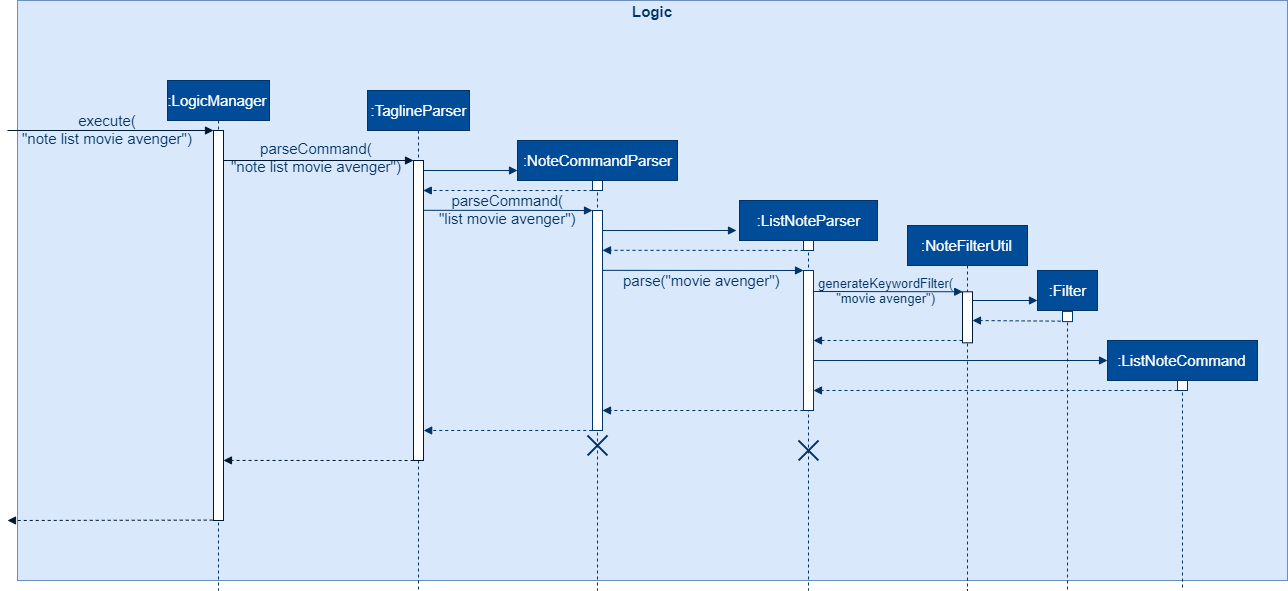
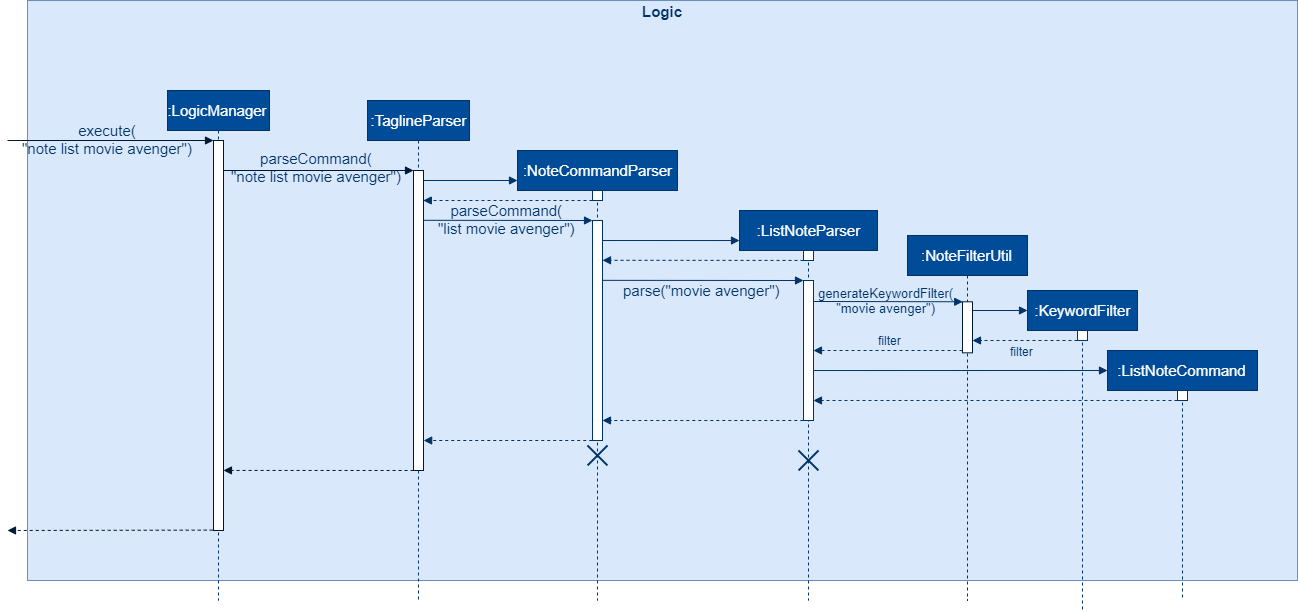
Rebuild pages at 787e2d8173f9a26972c2fdb9ae5f6810170be92a

diff --git a/DeveloperGuide.html b/DeveloperGuide.html
@@ -59,10 +59,10 @@
 <li><a href="#proposed-implementation-2">3.3.2. Proposed Implementation</a></li>
 </ul>
 </li>
-<li><a href="#proposed-note-filtering-feature">3.4. [Proposed] Note filtering feature</a>
+<li><a href="#note-filtering-feature">3.4. Note filtering feature</a>
 <ul class="sectlevel3">
 <li><a href="#description-3">3.4.1. Description</a></li>
-<li><a href="#proposed-implementation-3">3.4.2. Proposed Implementation</a></li>
+<li><a href="#implementation-3">3.4.2. Implementation</a></li>
 </ul>
 </li>
 <li><a href="#logging">3.5. Logging</a></li>
@@ -1194,7 +1194,7 @@ interact with TagManager which will find the tag or create it if it does not exi
 </div>
 </div>
 <div class="sect2">
-<h3 id="proposed-note-filtering-feature"><a class="link" href="#proposed-note-filtering-feature">3.4. [Proposed] Note filtering feature</a></h3>
+<h3 id="note-filtering-feature"><a class="link" href="#note-filtering-feature">3.4. Note filtering feature</a></h3>
 <div class="sect3">
 <h4 id="description-3"><a class="link" href="#description-3">3.4.1. Description</a></h4>
 <div class="paragraph">
@@ -1221,33 +1221,49 @@ interact with TagManager which will find the tag or create it if it does not exi
 </div>
 </div>
 <div class="sect3">
-<h4 id="proposed-implementation-3"><a class="link" href="#proposed-implementation-3">3.4.2. Proposed Implementation</a></h4>
+<h4 id="implementation-3"><a class="link" href="#implementation-3">3.4.2. Implementation</a></h4>
 <div class="paragraph">
-<p>The note filter mechanism is facilitated by the <code>Filter</code> inner class in <a href="https://github.com/AY1920S1-CS2103T-F12-3/main/tree/master/src/main/java/tagline/logic/commands/note/ListNoteCommand.java"><code>ListNoteCommand</code></a>.
-It contains a String filter value and the enum <code>FilterType</code>.</p>
+<p>The note filter mechanism is facilitated by the <a href="https://github.com/AY1920S1-CS2103T-F12-3/main/tree/master/src/main/java/tagline/logic/commands/note/NoteFilter.java"><code>NoteFilter</code></a> class.
+It contains the filter value and the enum <code>FilterType</code>.</p>
 </div>
 <div class="paragraph">
-<p>A <code>Filter</code> is generated by the <code>NoteFilterUtil</code> inner class in <a href="https://github.com/AY1920S1-CS2103T-F12-3/main/tree/master/src/main/java/tagline/logic/parser/note/ListNoteParser.java"><code>ListNoteParser</code></a> and passed into <code>ListNoteCommand</code>.</p>
+<p>A <code>NoteFilter</code> is generated by the <code>NoteFilterUtil</code> inner class in <a href="https://github.com/AY1920S1-CS2103T-F12-3/main/tree/master/src/main/java/tagline/logic/parser/note/ListNoteParser.java"><code>ListNoteParser</code></a> and passed into <a href="https://github.com/AY1920S1-CS2103T-F12-3/main/tree/master/src/main/java/tagline/logic/commands/note/ListNoteCommand.java"><code>ListNoteCommand</code></a>.</p>
+</div>
+<div class="paragraph">
+<p><code>ListNoteCommand</code> then creates a <code>Predicate</code> based on the filter and updates the list of notes in the UI via <code>Model</code>.</p>
 </div>
 <div class="sect4">
 <h5 id="filter-by-string-keyword"><a class="link" href="#filter-by-string-keyword">Filter by String keyword</a></h5>
 <div class="paragraph">
-<p>Filter by keyword also implements the  <a href="https://github.com/AY1920S1-CS2103T-F12-3/main/tree/master/src/main/java/tagline/model/note/NoteContainsKeywordsPredicate.java"><code>NoteContainsKeywordsPredicate</code></a>. The <code>Predicate</code> is passed into <code>Model#updateFilteredNoteList()</code> to list only notes that contain the keywords.</p>
+<p>Filter by keyword is facilitated by the following classes:</p>
+</div>
+<div class="ulist">
+<ul>
+<li>
+<p><a href="https://github.com/AY1920S1-CS2103T-F12-3/main/tree/master/src/main/java/tagline/logic/commands/note/KeywordFilter.java"><code>KeywordFilter</code></a> - implementation of <code>NoteFilter</code> that is passed into <code>ListNoteCommand</code></p>
+</li>
+<li>
+<p><a href="https://github.com/AY1920S1-CS2103T-F12-3/main/tree/master/src/main/java/tagline/model/note/NoteContainsKeywordsPredicate.java"><code>NoteContainsKeywordsPredicate</code></a> - <code>Predicate</code> passed into <code>Model#updateFilteredNoteList()</code> to list only notes that contain the keywords.</p>
+</li>
+</ul>
 </div>
 <div class="paragraph">
 <p>Given below is an example scenario where the user enters a command to filter notes by keywords.</p>
 </div>
 <div class="paragraph">
-<p><strong>Step 1:</strong> The user command is passed through the <code>LogicManager</code> and a <code>ListNoteCommand</code> with the <code>Filter</code> containing the keywords and <code>FilterType.KEYWORD</code> is returned.</p>
+<p><strong>Step 1:</strong> The user command is passed through the <code>LogicManager</code> to <code>ListNoteParser</code>. <code>ListNoteParser</code> checks the input arguments and identify the String keywords.</p>
+</div>
+<div class="paragraph">
+<p>The keywords are passed into <code>NoteFilterUtil#generateKeywordFilter()</code>  which returns a <code>KeywordFilter</code> containing the keywords and <code>FilterType.KEYWORD</code>.</p>
 </div>
 <div class="imageblock">
 <div class="content">
 <img src="images/FilterKeywordSequenceDiagram1.png" alt="FilterKeywordSequenceDiagram1">
 </div>
-<div class="title">Figure 28. Sequence diagram of parsing note filter user command to obtain a <code>ListNoteCommand</code></div>
+<div class="title">Figure 28. Sequence diagram of parsing <code>note list</code> user command to obtain a <code>ListNoteCommand</code></div>
 </div>
 <div class="paragraph">
-<p><strong>Step 2:</strong> The <code>ListNoteCommand</code> returned will be executed by the <code>LogicManager</code>. If a <code>Filter</code> exists and is of <code>FilterType.KEYWORD</code>, <code>ListNoteCommand#filterAndListByKeyword()</code> will be called.</p>
+<p><strong>Step 2:</strong> The <code>ListNoteCommand</code> returned will be executed by the <code>LogicManager</code>. If a <code>NoteFilter</code> exists and is of <code>FilterType.KEYWORD</code>, <code>ListNoteCommand#filterAndListByKeyword()</code> will be called.</p>
 </div>
 <div class="imageblock">
 <div class="content">
@@ -1256,7 +1272,7 @@ It contains a String filter value and the enum <code>FilterType</code>.</p>
 <div class="title">Figure 29. Sequence diagram of executing <code>ListNoteCommand</code> to update filtered note list by keyword in <code>Model</code></div>
 </div>
 <div class="paragraph">
-<p>The method will create a <code>NoteContainsKeywordsPredicate</code> and update the list of notes to be displayed via <code>Model</code>.</p>
+<p>The method will create a <code>NoteContainsKeywordsPredicate</code> and update the list of notes to be displayed via <code>Model#updateFilteredNoteList()</code>.</p>
 </div>
 <div class="imageblock">
 <div class="content">
@@ -1267,25 +1283,55 @@ It contains a String filter value and the enum <code>FilterType</code>.</p>
 <div class="sect4">
 <h5 id="filter-by-tag"><a class="link" href="#filter-by-tag">Filter by Tag</a></h5>
 <div class="paragraph">
-<p>Filter by <code>Tag</code> makes use of the <code>TagManager#findTag()</code> to obtain the <code>Tag</code> by passing in the <code>TagId</code>. It implements the <code>NoteContainsTagPredicate</code> which is passed into <code>Model#updateFilteredNoteList()</code> to list only notes that contain the tag.</p>
+<p>Filter by <code>Tag</code> is facilitated by the following classes/methods:</p>
+</div>
+<div class="ulist">
+<ul>
+<li>
+<p><a href="https://github.com/AY1920S1-CS2103T-F12-3/main/tree/master/src/main/java/tagline/logic/parser/tag/TagParserUtil.java"><code>TagParserUtil#parseTag()</code></a> - to obtain the <code>Tag</code> objects from the user input tag strings</p>
+</li>
+<li>
+<p><a href="https://github.com/AY1920S1-CS2103T-F12-3/main/tree/master/src/main/java/tagline/logic/commands/note/TagFilter.java"><code>TagFilter</code></a> - implementation of <code>NoteFilter</code> that is passed into <code>ListNoteCommand</code></p>
+</li>
+<li>
+<p><a href="https://github.com/AY1920S1-CS2103T-F12-3/main/tree/master/src/main/java/tagline/model/note/NoteContainsKeywordsPredicate.java"><code>NoteContainsTagsPredicate</code></a> - <code>Predicate</code> passed into <code>Model#updateFilteredNoteList()</code> to list only notes that is tagged by specified <code>Tag</code></p>
+</li>
+</ul>
 </div>
 <div class="paragraph">
 <p>Given below is an example scenario where the user enters a command to filter notes by tag.</p>
 </div>
 <div class="paragraph">
-<p><strong>Step 1:</strong> Similar to filtering by keyword, the user command is passed through the <code>LogicManager</code> and a <code>ListNoteCommand</code> with the <code>Filter</code> containing the keywords and <code>FilterType.TAG</code> is returned.</p>
+<p><strong>Step 1:</strong> Similar to filtering by keyword, the user command is passed to the <code>ListNoteParser</code>. The <code>ListNoteParser</code> checks the input arguments and identify the tag strings.</p>
 </div>
 <div class="paragraph">
-<p><strong>Step 2:</strong> The <code>ListNoteCommand</code> returned will be executed by the <code>LogicManager</code>. If a <code>Filter</code> exists and is of <code>FilterType.TAG</code>, <code>ListNoteCommand#filterAndListByTag()</code> will be called.</p>
-</div>
-<div class="paragraph">
-<p>The method will create a <code>TagId</code> from the user input and obtain the <code>Tag</code> through the <code>TagManager#findTag()</code>. The <code>Tag obtained will be passed into the `NoteContainsTagPredicate</code>. The <code>Predicate</code> is then used to filter the list of notes via <code>Model</code>.</p>
+<p>The tag strings are passed into <code>NoteFilterUtil#generateTagFilter()</code>. <code>TagParserUtil#parseTag()</code> is called to get <code>Tag</code> from the tag string. <code>TagFilter</code> containing the list of tags and <code>FilterType.TAG</code> is returned.</p>
 </div>
 <div class="imageblock">
 <div class="content">
-<img src="images/FilterTagSequenceDiagram.png" alt="FilterTagSequenceDiagram">
+<img src="images/FilterTagSequenceDiagram1.png" alt="FilterTagSequenceDiagram1">
 </div>
-<div class="title">Figure 30. Sequence diagram of executing <code>ListNoteCommand</code> to update filtered note list by <code>Tag</code> in <code>Model</code></div>
+<div class="title">Figure 30. Sequence diagram of parsing user input tag strings to obtain a <code>ListNoteCommand</code></div>
+</div>
+<div class="paragraph">
+<p><strong>Step 2:</strong> The <code>ListNoteCommand</code> returned will be executed by the <code>LogicManager</code>. If a <code>NoteFilter</code> exists and is of <code>FilterType.TAG</code>, <code>ListNoteCommand#filterAndListByTag()</code> will be called.</p>
+</div>
+<div class="imageblock">
+<div class="content">
+<img src="images/FilterTagSequenceDiagram2.png" alt="FilterTagSequenceDiagram2">
+</div>
+<div class="title">Figure 31. Sequence diagram of executing <code>ListNoteCommand</code> to update filtered note list by <code>Tag</code> in <code>Model</code></div>
+</div>
+<div class="paragraph">
+<p>The method will check if the tags in the <code>NoteFilter</code> exists via <code>Model#findTag()</code>. If a <code>Tag</code> does not exist, an error message will be displayed.</p>
+</div>
+<div class="paragraph">
+<p>If all tags exist, the tags will be passed into the <code>NoteContainsTagsPredicate</code> and update the list of notes to be displayed via <code>Model#updateFilteredNoteList()</code>.</p>
+</div>
+<div class="imageblock">
+<div class="content">
+<img src="images/FilterTagExample.png" alt="FilterTagExample">
+</div>
 </div>
 </div>
 </div>
@@ -2038,4 +2084,4 @@ Expected: Similar to previous.</p>
 </div>
 </div>
 </div>
-</div></div><div id="footer"><div class="container"><div id="footer-text">Last updated 2019-11-07 16:16:42 UTC</div></div></div></body></html>
+</div></div><div id="footer"><div class="container"><div id="footer-text">Last updated 2019-11-08 04:17:10 UTC</div></div></div></body></html>

diff --git a/ContactUs.html b/ContactUs.html
@@ -6,4 +6,4 @@
 <p><strong>Bug reports, Suggestions</strong> : Post in our <a href="https://github.com/AY1920S1-CS2103T-F12-3/main/issues">issue tracker</a> if you noticed bugs or have suggestions on how to improve.</p>
 </li>
 </ul>
-</div></div><div id="footer"><div class="container"><div id="footer-text">Last updated 2019-11-07 16:16:42 UTC</div></div></div></body></html>
+</div></div><div id="footer"><div class="container"><div id="footer-text">Last updated 2019-11-08 04:17:10 UTC</div></div></div></body></html>

diff --git a/tutorials/RemovingFields.html b/tutorials/RemovingFields.html
@@ -175,4 +175,4 @@ While keeping the <code>address</code> field in the json files does not cause th
 <p>You can go through each individual <code>json</code> file and manually remove the <code>address</code> field.</p>
 </div>
 </div>
-</div></div><div id="footer"><div class="container"><div id="footer-text">Last updated 2019-11-07 16:16:42 UTC</div></div></div></body></html>
+</div></div><div id="footer"><div class="container"><div id="footer-text">Last updated 2019-11-08 04:17:10 UTC</div></div></div></body></html>

diff --git a/Testing.html b/Testing.html
@@ -90,4 +90,4 @@ e.g. <code>seedu.address.logic.LogicManagerTest</code></p>
 <div class="title">Figure 1. <code>Accessibility</code> permission is granted to <code>IntelliJ IDEA</code></div>
 </div>
 </div>
-</div></div><div id="footer"><div class="container"><div id="footer-text">Last updated 2019-11-07 16:16:42 UTC</div></div></div></body></html>
+</div></div><div id="footer"><div class="container"><div id="footer-text">Last updated 2019-11-08 04:17:10 UTC</div></div></div></body></html>

diff --git a/tutorials/AddRemark.html b/tutorials/AddRemark.html
@@ -616,4 +616,4 @@ In this case, <code>CommandTestUtil#assertCommandSuccess</code> is the best fit 
 <p>This concludes the tutorial for adding a new <code>Command</code> to AddressBook.</p>
 </div>
 </div>
-</div></div><div id="footer"><div class="container"><div id="footer-text">Last updated 2019-11-07 16:16:42 UTC</div></div></div></body></html>
+</div></div><div id="footer"><div class="container"><div id="footer-text">Last updated 2019-11-08 04:17:10 UTC</div></div></div></body></html>

diff --git a/AboutUs.html b/AboutUs.html
@@ -154,4 +154,4 @@ We are a team based in the <a href="http://www.comp.nus.edu.sg">School of Comput
 </div>
 </div>
 </div>
-</div></div><div id="footer"><div class="container"><div id="footer-text">Last updated 2019-11-07 16:16:42 UTC</div></div></div></body></html>
+</div></div><div id="footer"><div class="container"><div id="footer-text">Last updated 2019-11-08 04:17:10 UTC</div></div></div></body></html>

diff --git a/LearningOutcomes.html b/LearningOutcomes.html
@@ -474,4 +474,4 @@ of storages, but different number of storages (e.g. save to both a text file and
 </div>
 </div>
 </div>
-</div></div><div id="footer"><div class="container"><div id="footer-text">Last updated 2019-11-07 16:16:42 UTC</div></div></div></body></html>
+</div></div><div id="footer"><div class="container"><div id="footer-text">Last updated 2019-11-08 04:17:10 UTC</div></div></div></body></html>

diff --git a/SettingUp.html b/SettingUp.html
@@ -180,4 +180,4 @@ Having both Travis and AppVeyor ensures your App works on both Unix-based platfo
 </div>
 </div>
 </div>
-</div></div><div id="footer"><div class="container"><div id="footer-text">Last updated 2019-11-07 16:16:42 UTC</div></div></div></body></html>
+</div></div><div id="footer"><div class="container"><div id="footer-text">Last updated 2019-11-08 04:17:10 UTC</div></div></div></body></html>

diff --git a/UsingCoveralls.html b/UsingCoveralls.html
@@ -111,4 +111,4 @@ If you have not set up Travis CI, see <a href="UsingTravis.html">UsingTravis.ado
 </ol>
 </div>
 </div>
-</div></div><div id="footer"><div class="container"><div id="footer-text">Last updated 2019-11-07 16:16:42 UTC</div></div></div></body></html>
+</div></div><div id="footer"><div class="container"><div id="footer-text">Last updated 2019-11-08 04:17:10 UTC</div></div></div></body></html>

diff --git a/UsingGradle.html b/UsingGradle.html
@@ -228,4 +228,4 @@ See <code>build.gradle</code> &#8594; <code>allprojects</code> &#8594; <code>dep
 </ul>
 </div>
 </div>
-</div></div><div id="footer"><div class="container"><div id="footer-text">Last updated 2019-11-07 16:16:42 UTC</div></div></div></body></html>
+</div></div><div id="footer"><div class="container"><div id="footer-text">Last updated 2019-11-08 04:17:10 UTC</div></div></div></body></html>

diff --git a/UsingNetlify.html b/UsingNetlify.html
@@ -138,4 +138,4 @@ The publish directory is the directory in which the built HTML documentation res
 </ol>
 </div>
 </div>
-</div></div><div id="footer"><div class="container"><div id="footer-text">Last updated 2019-11-07 16:16:42 UTC</div></div></div></body></html>
+</div></div><div id="footer"><div class="container"><div id="footer-text">Last updated 2019-11-08 04:17:10 UTC</div></div></div></body></html>

diff --git a/index.html b/index.html
@@ -73,4 +73,4 @@ Want a CLI note-taking app befitting of the techie that you are?</p>
 <div class="sectionbody">
 
 </div>
-</div></div><div id="footer"><div class="container"><div id="footer-text">Last updated 2019-11-07 16:16:42 UTC</div></div></div></body></html>
+</div></div><div id="footer"><div class="container"><div id="footer-text">Last updated 2019-11-08 04:17:10 UTC</div></div></div></body></html>
